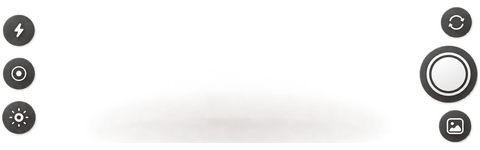
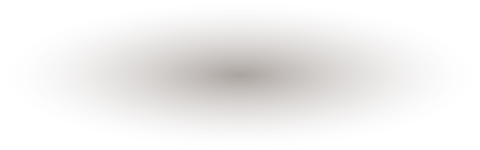
Regenerate camera scrims and soft shadow; clarify bg must be opaque
The Codex versions baked camera icons into bottombar-scrim and shadow-soft.
These are now plain gradients from tools/make-procedural-ui.ps1. The asset
brief said every file was a transparent PNG, which produced cut-out
backgrounds, so bg/ is now explicitly opaque and full-bleed.

diff --git a/docs/codex/CODEX_PROMPT.md b/docs/codex/CODEX_PROMPT.md
@@ -21,7 +21,9 @@
 - **文字は焼き込まない**（`ASSET_LIST.md` の brand/ 以外）。ボタン・バッジのラベルはアプリ側で描画するため、中身は空にしておく。
 - 全アイコンは同一スタイルで統一（線の太さ・影・角の丸み・光源は左上）。on/off の2状態があるものは同一形状で色だけ変える。
 - 9slice 指定の画像は、四隅の装飾を保ち、四辺の中央に伸ばしても破綻しない無地帯を持たせる。
-- すべて透過PNG。背景を白で塗りつぶさない。縁に白いフリンジを残さない。
+- bg/ 以外はすべて透過PNG。背景を白で塗りつぶさない。縁に白いフリンジを残さない。
+- bg/ は不透明な全面背景（四角い画面をすみずみまで埋める）。周りが透明な切り抜きイラストにしない。
+- scrim（グラデーション）と影は、それ単体の画像にする。ボタンやアイコンを一緒に描き込まない。
 - 撮影画面（`camera/`）はライブ映像の上に重なるため、明るい映像でも暗い映像でも見えるよう半透明の暗い地＋白アイコンを基本にする。共有カード（`share/`）は枠と装飾だけを作り、写真・文字の差し込み領域を manifest に記録する。
 - 実在の企業・キャラクター・ブランドのロゴは使わない。国旗と消印は一般的な意匠に留める。
 

diff --git a/docs/codex/ASSET_LIST.md b/docs/codex/ASSET_LIST.md
@@ -1,6 +1,6 @@
 # UI画像アセット一覧
 
-出力先は `app/assets/ui/<カテゴリ>/<名前>.png`。すべて **透過PNG**、サイズは @3x 実寸（iPhone 論理幅 393pt ≒ 1179px 基準）。
+出力先は `app/assets/ui/<カテゴリ>/<名前>.png`。**bg/ 以外はすべて透過PNG**（bg/ は不透明で、指定サイズの四角をすみずみまで埋める全面背景。切り抜きイラストにしない）、サイズは @3x 実寸（iPhone 論理幅 393pt ≒ 1179px 基準）。
 「9slice」は角丸を保ったまま横/縦に引き伸ばせるよう、四辺中央に伸ばせる無地帯を持たせる（角の半径は書かれた値、伸縮帯は最低 24px）。
 文字は **ロゴ・タイトル画像以外には焼き込まない**（ボタンや札のラベルはアプリ側でテキスト描画する）。
 
